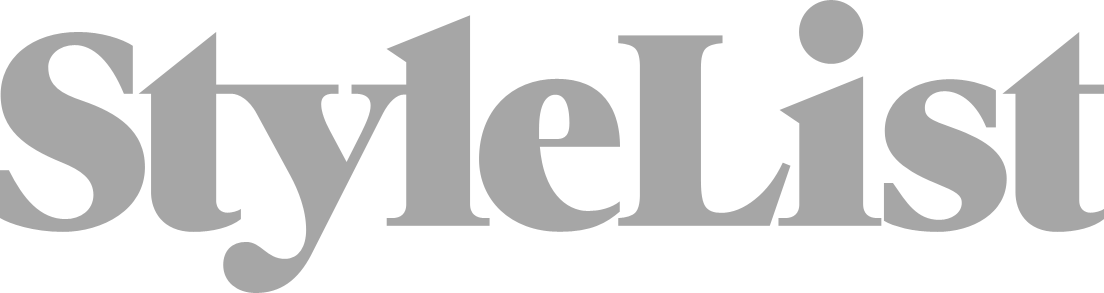
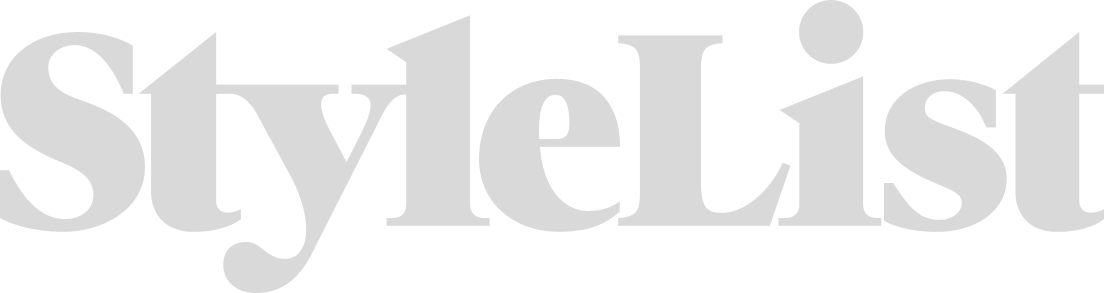
Add bg image for Inspiration wall

diff --git a/scss/_modules.scss b/scss/_modules.scss
@@ -214,6 +214,9 @@
 #inspiration-wall {
 	background: url(../media/grey-linen-bg.png) 0 0 repeat;
 }
+#inspiration-wall.stylelist-transparent-logo {
+	background: url(../media/stylelist-transparent.png) center -50px no-repeat, url(../media/grey-linen-bg.png) 0 0 repeat;
+}
 .inspiration-heading {
 	position: relative;
 }
